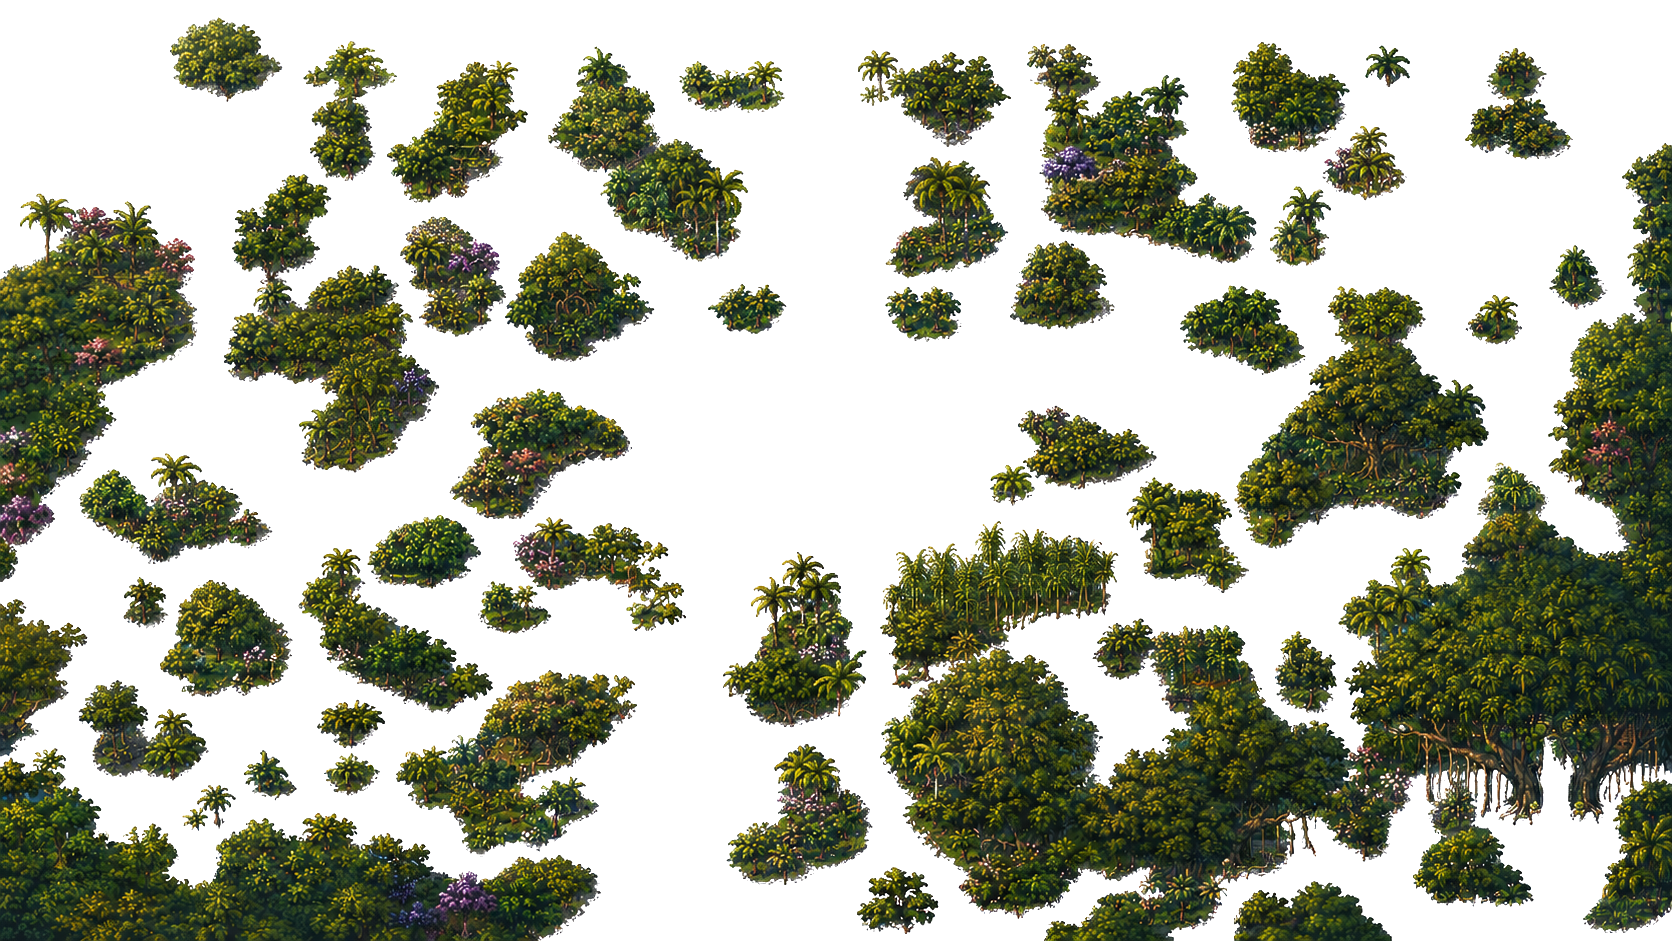
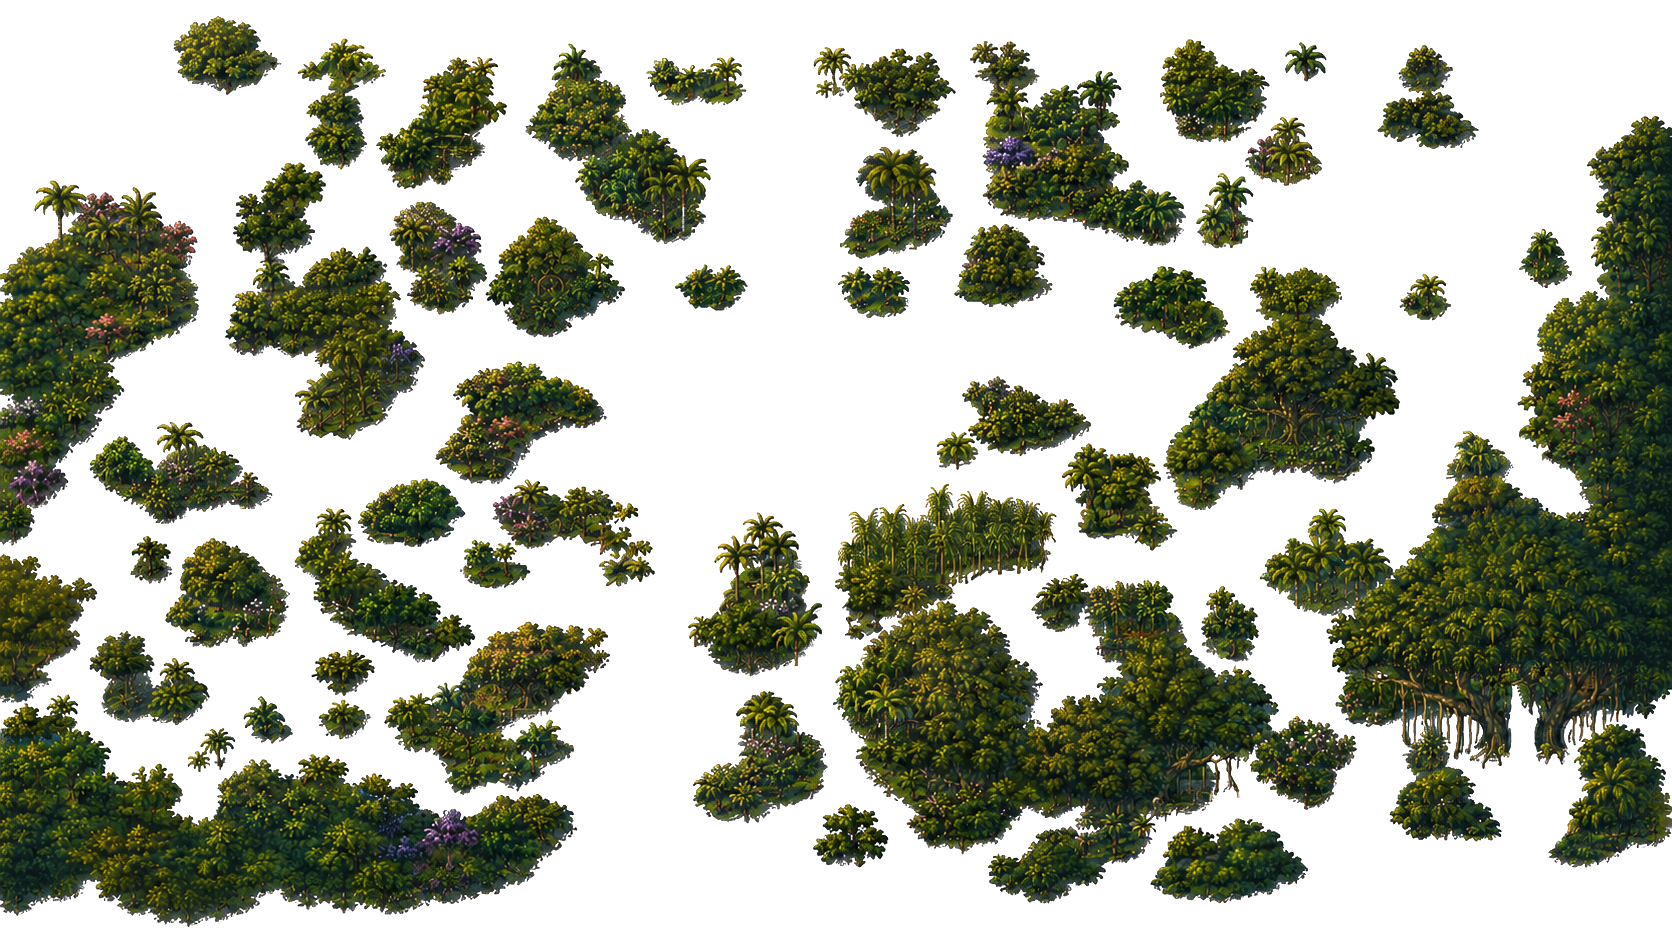
feat: improve map layers and camera browsing

diff --git a/src/game/systems/CameraController.ts b/src/game/systems/CameraController.ts
@@ -5,6 +5,9 @@ import type { InputController } from "./InputController";
 export class CameraController {
   private readonly camera: Phaser.Cameras.Scene2D.Camera;
   private speed = 260;
+  private dragPointerId: number | null = null;
+  private lastDragX = 0;
+  private lastDragY = 0;
 
   constructor(
     private readonly scene: Phaser.Scene,
@@ -14,6 +17,7 @@ export class CameraController {
     this.camera.setBounds(0, 0, MAP_WIDTH, MAP_HEIGHT);
     this.camera.centerOn(MAP_WIDTH * 0.5, MAP_HEIGHT * 0.55);
     this.resize();
+    this.bindDragPan();
   }
 
   resize() {
@@ -42,5 +46,46 @@ export class CameraController {
       0,
       MAP_HEIGHT - this.camera.displayHeight
     );
+  }
+
+  private bindDragPan() {
+    this.scene.input.on("pointerdown", (pointer: Phaser.Input.Pointer) => {
+      if (pointer.x < 150 && pointer.y > this.scene.scale.height - 160) {
+        return;
+      }
+
+      this.dragPointerId = pointer.id;
+      this.lastDragX = pointer.x;
+      this.lastDragY = pointer.y;
+    });
+
+    this.scene.input.on("pointermove", (pointer: Phaser.Input.Pointer) => {
+      if (this.dragPointerId !== pointer.id || !pointer.isDown) {
+        return;
+      }
+
+      const zoom = this.camera.zoom || 1;
+      const deltaX = (this.lastDragX - pointer.x) / zoom;
+      const deltaY = (this.lastDragY - pointer.y) / zoom;
+
+      this.camera.scrollX = Phaser.Math.Clamp(
+        this.camera.scrollX + deltaX,
+        0,
+        MAP_WIDTH - this.camera.displayWidth
+      );
+      this.camera.scrollY = Phaser.Math.Clamp(
+        this.camera.scrollY + deltaY,
+        0,
+        MAP_HEIGHT - this.camera.displayHeight
+      );
+      this.lastDragX = pointer.x;
+      this.lastDragY = pointer.y;
+    });
+
+    this.scene.input.on("pointerup", (pointer: Phaser.Input.Pointer) => {
+      if (this.dragPointerId === pointer.id) {
+        this.dragPointerId = null;
+      }
+    });
   }
 }

diff --git a/src/game/scenes/CampusScene.ts b/src/game/scenes/CampusScene.ts
@@ -51,6 +51,7 @@ export class CampusScene extends Phaser.Scene {
 
     this.createHud();
     this.createJoystick();
+    this.createTransientHint();
 
     this.scale.on("resize", () => {
       this.cameraController?.resize();
@@ -366,6 +367,30 @@ export class CampusScene extends Phaser.Scene {
     this.muteLabel.on("pointerdown", () => {
       const muted = this.audio?.toggleMuted() ?? true;
       this.muteLabel?.setText(`声音: ${muted ? "关" : "开"}`);
+    });
+  }
+
+  private createTransientHint() {
+    const hint = ResponsiveViewport.createFixedHudText(
+      this,
+      this.scale.width / 2,
+      this.scale.height - 42,
+      "拖动画面或使用 WASD / 方向键慢慢浏览校园",
+      {
+        color: "#fff6d6",
+        fontFamily: "Arial, sans-serif",
+        fontSize: "15px",
+        backgroundColor: "rgba(8, 20, 15, 0.45)",
+        padding: { x: 14, y: 8 }
+      }
+    ).setOrigin(0.5);
+
+    this.tweens.add({
+      targets: hint,
+      alpha: 0,
+      delay: 4200,
+      duration: 1200,
+      onComplete: () => hint.destroy()
     });
   }
 

diff --git a/scripts/process-campus-layers.py b/scripts/process-campus-layers.py
@@ -1,0 +1,69 @@
+#!/usr/bin/env python3
+from __future__ import annotations
+
+import argparse
+from pathlib import Path
+
+from PIL import Image
+
+
+def convert_layer(source: Path, destination: Path, mode: str) -> None:
+    image = Image.open(source).convert("RGBA")
+    pixels = []
+
+    for red, green, blue, _alpha in image.getdata():
+        maximum = max(red, green, blue)
+        minimum = min(red, green, blue)
+        saturation = maximum - minimum
+        luminance = 0.2126 * red + 0.7152 * green + 0.0722 * blue
+        alpha = 255
+        out_red, out_green, out_blue = red, green, blue
+
+        if mode == "canopy":
+            if luminance > 178 and saturation < 36:
+                alpha = 0
+            else:
+                alpha = min(255, max(0, int((210 - luminance) * 2.45 + saturation * 1.35)))
+        elif mode == "water":
+            blue_green = blue > 95 and green > 75 and red < 190
+            gold = red > 150 and green > 130 and blue < 130
+            if (luminance > 190 and saturation < 36) or not (blue_green or gold):
+                alpha = 0
+            else:
+                alpha = 116 if blue_green else 92
+        elif mode == "shadows":
+            alpha = int(max(0, min(165, (242 - luminance) * 1.55)))
+            if alpha < 18:
+                alpha = 0
+            out_red, out_green, out_blue = 50, 45, 38
+        elif mode == "atmosphere":
+            warm = red > 138 and green > 105 and red >= green and (red - blue) > 16
+            if not warm:
+                alpha = 0
+            else:
+                alpha = int(max(0, min(132, (red - blue) * 0.82 + (green - blue) * 0.28)))
+                out_red = 255
+                out_green = min(238, max(168, green + 18))
+                out_blue = max(82, min(170, blue + 10))
+        else:
+            raise ValueError(f"Unsupported mode: {mode}")
+
+        pixels.append((out_red, out_green, out_blue, alpha))
+
+    image.putdata(pixels)
+    destination.parent.mkdir(parents=True, exist_ok=True)
+    image.save(destination)
+
+
+def main() -> None:
+    parser = argparse.ArgumentParser(description="Convert generated RGB checkerboard layers to RGBA runtime assets.")
+    parser.add_argument("mode", choices=["canopy", "water", "shadows", "atmosphere"])
+    parser.add_argument("source", type=Path)
+    parser.add_argument("destination", type=Path)
+    args = parser.parse_args()
+
+    convert_layer(args.source, args.destination, args.mode)
+
+
+if __name__ == "__main__":
+    main()

diff --git a/README.md b/README.md
@@ -15,6 +15,15 @@ pnpm dev
 pnpm build
 ```
 
+## Process Generated Layers
+
+Some image tools export fake transparency as a checkerboard baked into RGB pixels. Convert those into runtime RGBA layers with:
+
+```bash
+python3 scripts/process-campus-layers.py canopy /path/to/canopy.png public/assets/campus/map/foreground-canopy.png
+python3 scripts/process-campus-layers.py atmosphere /path/to/dusk.png public/assets/campus/atmosphere/dusk-overlay.png
+```
+
 ## Scope
 
 This project follows `docs/superpowers/specs/2026-07-10-quello-campus-web-architecture-whitepaper.md`.

diff --git a/public/assets/campus/README.md b/public/assets/campus/README.md
@@ -23,3 +23,5 @@ The current implementation now uses the first generated layered map set:
 - `atmosphere/dusk-overlay.png`
 
 Important: the source images supplied on 2026-07-10 were RGB PNGs with checkerboard backgrounds baked into the pixels. The runtime layers here were automatically converted into RGBA for integration. For the public-quality pass, export true transparent PNGs directly from the image tool or design file.
+
+If the generated source still contains a baked checkerboard, run `scripts/process-campus-layers.py` from the project root.